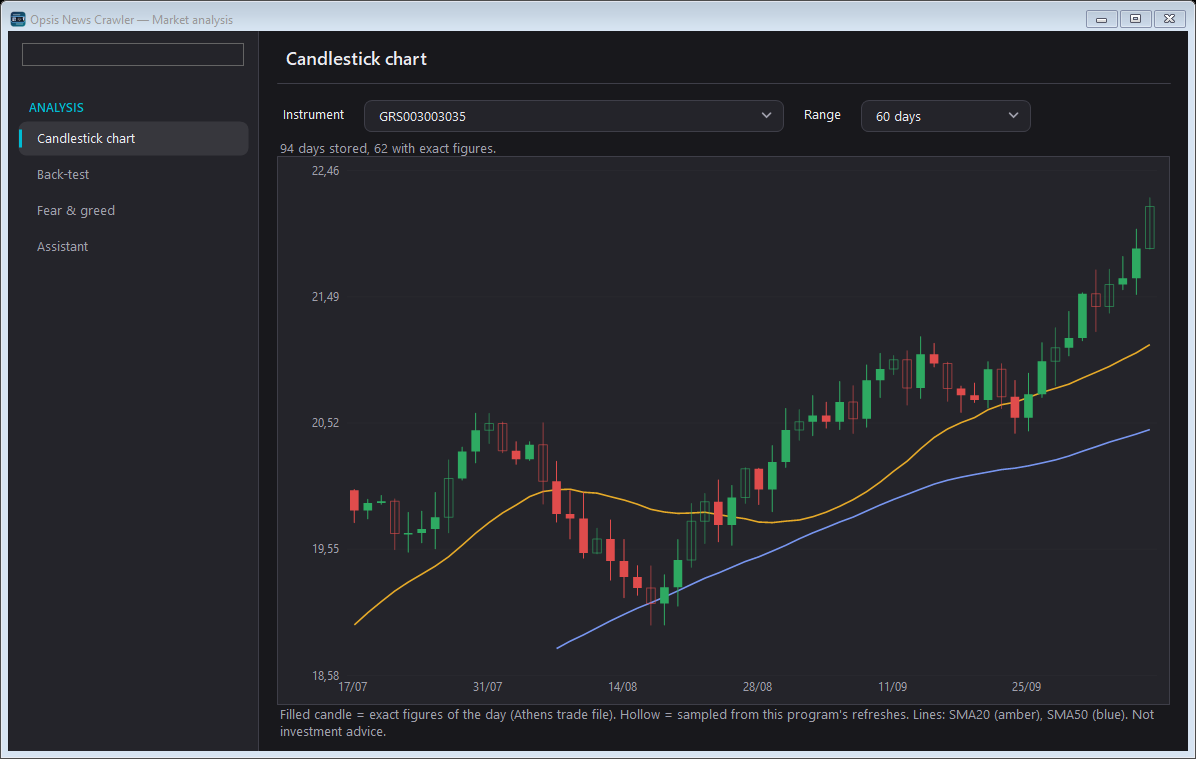
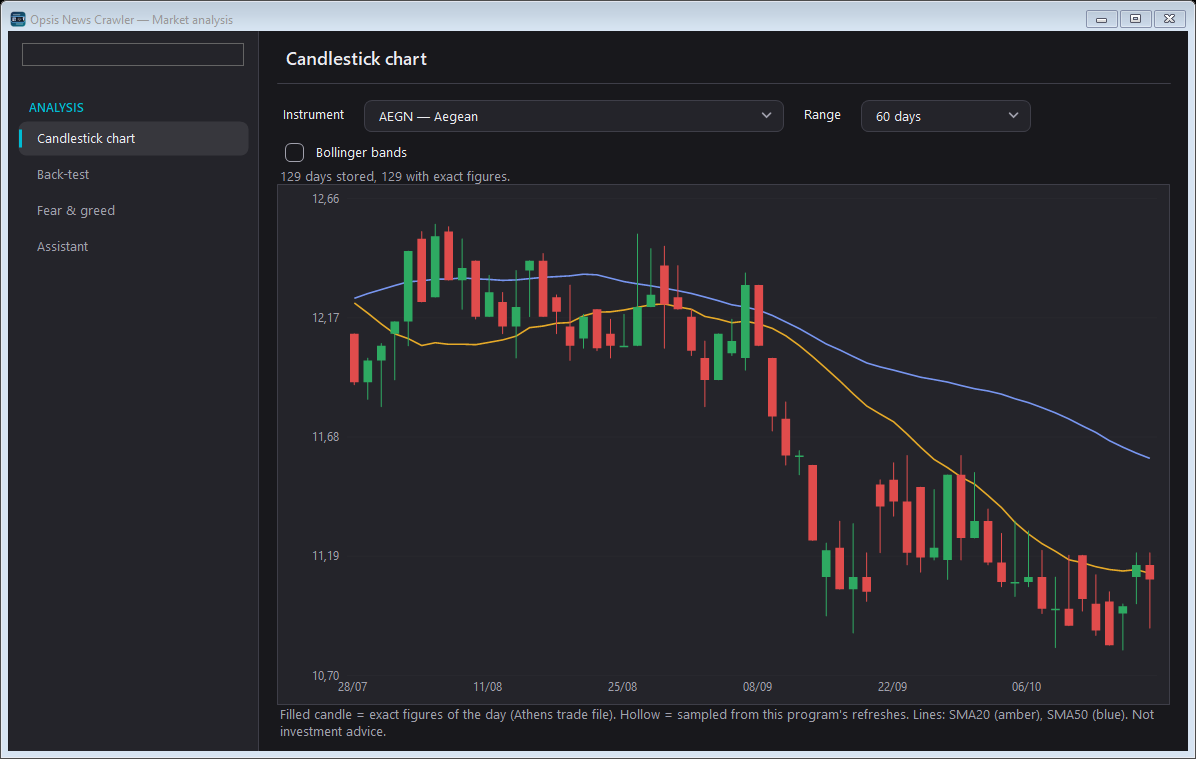
0.13.1: optional Yahoo price history, Bollinger bands, translations in 14 languages

diff --git a/src/OpsisNewsCrawler.Core/RssNewsProvider.cs b/src/OpsisNewsCrawler.Core/RssNewsProvider.cs
@@ -36,7 +36,7 @@ public sealed class RssNewsProvider : IDisposable
     public RssNewsProvider()
     {
         http = new HttpClient { Timeout = TimeSpan.FromSeconds(15), MaxResponseContentBufferSize = MaxFeedBytes };
-        http.DefaultRequestHeaders.UserAgent.ParseAdd("Mozilla/5.0 (compatible; OpsisNewsCrawler/0.13.0)");
+        http.DefaultRequestHeaders.UserAgent.ParseAdd("Mozilla/5.0 (compatible; OpsisNewsCrawler/0.13.1)");
         http.DefaultRequestHeaders.Accept.ParseAdd("application/rss+xml, application/atom+xml, application/xml, text/xml, */*");
     }
 

diff --git a/src/OpsisNewsCrawler.Windows/AboutTexts.cs b/src/OpsisNewsCrawler.Windows/AboutTexts.cs
@@ -5,7 +5,7 @@ namespace OpsisNewsCrawler.Windows;
 /// <summary>The Help / Instructions / Version history / License texts, in the language of the UI (see locale files).</summary>
 public static class AboutTexts
 {
-    public const string Version = "0.13.0";
+    public const string Version = "0.13.1";
 
     public static string Help => Loc.T("help.text");
     public static string Instructions => Loc.T("instructions.text");

diff --git a/docs/RELEASE-0.13.1.md b/docs/RELEASE-0.13.1.md
@@ -1,0 +1,47 @@
+# Opsis News Crawler 0.13.1
+
+> Το κύριο Opsis - Desktop Customization παραμένει στην έκδοση **1.9.8**. / The main application Opsis - Desktop Customization stays at version **1.9.8**.
+
+## Ελληνικά
+
+### Νέα
+- **Προαιρετικό ιστορικό τιμών από το Yahoo Finance** (Πηγές → Ροή αγορών → Ιστορικό τιμών). **Ανενεργό από προεπιλογή, ανεπίσημο, με δική σου ευθύνη**: οι όροι του Yahoo δεν επιτρέπουν αυτοματοποιημένη χρήση. Όταν το ενεργοποιήσεις, το πρόγραμμα ζητά τις ημερήσιες τιμές των τελευταίων έξι μηνών για τα προϊόντα σου (μία αίτηση ανά προϊόν την ημέρα, με διάστημα ενός δευτερολέπτου), σταματά με την πρώτη άρνηση και δεν παρακάμπτει κανένα όριο. Έτσι το **γράφημα κεριών, η δοκιμή στρατηγικής και ο δείκτης φόβου/απληστίας** δουλεύουν από την πρώτη μέρα, με πραγματικά δεδομένα (στιγμιότυπα παρακάτω).
+- **Ζώνες Bollinger** στο γράφημα κεριών.
+- **Μεταφράσεις**: όλα τα νέα κείμενα (ανάλυση αγορών, βοηθός, στυλ μπάρας, tray, καιρός, μηνύματα δικτύου) στις 12 γλώσσες. Τα μεγάλα κείμενα Βοήθειας/Οδηγιών/Ιστορικού/Άδειας μένουν αγγλικά στις 12 αυτές γλώσσες.
+- Ενημερωμένες Οδηγίες (νέα δομή ρυθμίσεων, ανάλυση αγορών).
+
+### Διορθώσεις
+- Οι μετοχές άλλων αγορών Euronext και το χαρτοφυλάκιο βρίσκουν πλέον τις αποθηκευμένες τιμές τους στα γραφήματα και στους δείκτες.
+
+### Σημειώσεις
+- Το **Stooq δεν υποστηρίζεται**: σήμερα απαντά με σελίδα επαλήθευσης «δεν είσαι ρομπότ» και το robots.txt του απαγορεύει την αυτόματη πρόσβαση· δεν παρακάμπτεται προστασία.
+- Η πραγματική κλήση του βοηθού AI δεν έχει δοκιμαστεί (χρειάζεται δικό σου κλειδί Anthropic).
+
+### Στιγμιότυπα (πραγματικά δεδομένα Yahoo, μετοχές Αθηνών)
+| | |
+|---|---|
+| ![Ιστορικό τιμών](https://raw.githubusercontent.com/giorstergiopoulos-design/OpsisNewsCrawler/main/docs/screenshots/el/07-markets.png) | ![Κεριά](https://raw.githubusercontent.com/giorstergiopoulos-design/OpsisNewsCrawler/main/docs/screenshots/el/15-analysis-candles.png) |
+| ![Δοκιμή](https://raw.githubusercontent.com/giorstergiopoulos-design/OpsisNewsCrawler/main/docs/screenshots/el/16-analysis-backtest.png) | ![Φόβος και απληστία](https://raw.githubusercontent.com/giorstergiopoulos-design/OpsisNewsCrawler/main/docs/screenshots/el/17-analysis-fear-greed.png) |
+
+## English
+
+### New
+- **Optional price history from Yahoo Finance** (Sources → Markets flow → Price history). **Off by default, unofficial, at your own risk**: Yahoo's terms do not allow automated use. When switched on, the program asks for the daily prices of the last six months for your instruments (one request per instrument and day, one second apart), stops at the first refusal and bypasses no limit. This makes the **candlestick chart, the back-test and the fear & greed gauge** work from the first day, with real data (screenshots below).
+- **Bollinger bands** on the candlestick chart.
+- **Translations**: every new text (market analysis, assistant, bar styles, tray, weather, network messages) in the 12 other languages. The long Help/Instructions/History/License texts stay English in those 12 languages.
+- Updated Instructions (new settings layout, market analysis).
+
+### Fixes
+- Shares of other Euronext markets and the portfolio now find their stored prices in the charts and indicators.
+
+### Notes
+- **Stooq is not supported**: it now answers with a "verify you are not a robot" page and its robots.txt forbids automated access; no protection is bypassed.
+- A real call to the AI assistant has not been tested (it needs your own Anthropic key).
+
+### Screenshots (real Yahoo data, Athens shares)
+| | |
+|---|---|
+| ![Price history](https://raw.githubusercontent.com/giorstergiopoulos-design/OpsisNewsCrawler/main/docs/screenshots/en/07-markets.png) | ![Candles](https://raw.githubusercontent.com/giorstergiopoulos-design/OpsisNewsCrawler/main/docs/screenshots/en/15-analysis-candles.png) |
+| ![Back-test](https://raw.githubusercontent.com/giorstergiopoulos-design/OpsisNewsCrawler/main/docs/screenshots/en/16-analysis-backtest.png) | ![Fear and greed](https://raw.githubusercontent.com/giorstergiopoulos-design/OpsisNewsCrawler/main/docs/screenshots/en/17-analysis-fear-greed.png) |
+
+Weather data: Open-Meteo.com (CC BY 4.0). Not code-signed: Windows SmartScreen may warn. Requires the .NET 10 Desktop Runtime (the installer can fetch it).

diff --git a/README.md b/README.md
@@ -29,6 +29,8 @@
 | 🧩 Plugin | Ενσωματωμένη εγκατάσταση στο Opsis (δική του σελίδα, χρώματα και γλώσσα του Opsis) ή αυτόνομη εφαρμογή |
 | 🌍 14 γλώσσες | Ελληνικά, English, Deutsch, Français, Español, Italiano, Português, Русский, Türkçe, 日本語, 한국어, 简体中文, العربية (με δεξιά-προς-αριστερά διάταξη), हिन्दी |
 
+**Νέο στην 0.13.1:** προαιρετικό ιστορικό τιμών από το Yahoo Finance (ανενεργό από προεπιλογή, ανεπίσημο, με δική σας ευθύνη), ζώνες Bollinger, μεταφράσεις σε 14 γλώσσες.
+
 **Νέο στην 0.13.0:** παράθυρο **Ανάλυσης αγορών** (γράφημα κεριών με SMA20/50, δοκιμή στρατηγικής SMA/RSI,
 δείκτης φόβου και απληστίας από τις αποθηκευμένες τιμές, προαιρετικός βοηθός με το δικό σας κλειδί Anthropic), νέο παράθυρο
 ρυθμίσεων με πλευρική πλοήγηση και όλες τις ρυθμίσεις μπαρών στη σελίδα «Μπάρες», στυλ μπάρας επιφάνειας (ορθογώνιο, στρογγυλεμένο,
@@ -130,6 +132,8 @@ Frankfurter/ΕΚΤ, FRED/EIA. Καιρός: [Open-Meteo.com](https://open-meteo.
 | 🎨 Look | Colour, transparency, background material (acrylic/blur), fading ends, theme — the same as Opsis |
 | 🧩 Plugin | Integrated into Opsis (its own page, Opsis colours and language) or a stand-alone app |
 | 🌍 14 languages | Greek, English, German, French, Spanish, Italian, Portuguese, Russian, Turkish, Japanese, Korean, Simplified Chinese, Arabic (with right-to-left layout), Hindi |
+
+**New in 0.13.1:** optional price history from Yahoo Finance (off by default, unofficial, at your own risk), Bollinger bands, translations in 14 languages.
 
 **New in 0.13.0:** a **Market analysis** window (candlestick chart with SMA20/50, SMA/RSI back-test, a fear & greed gauge from the
 stored prices, an optional assistant with your own Anthropic key), a new settings window with side navigation and every bar setting on

diff --git a/CHANGELOG.md b/CHANGELOG.md
@@ -3,7 +3,7 @@
 The complete history (all versions, in Greek and English) is also inside the program: Settings → Information → History.
 Detailed notes per release: `docs/RELEASE-*.md` and the GitHub releases.
 
-## Unreleased (after 0.13.0)
+## 0.13.1 — 2026-10-21
 - All new texts of 0.12.8–0.13.0 translated into the 12 other languages (analysis window, back-test, fear & greed, assistant, bar styles, tray, weather details, network messages). Help/Instructions/History/License remain English in those 12 languages.
 - Optional price history from Yahoo Finance (off by default, unofficial, at the user's own risk): charts, back-test and gauge work from the first day. Stooq is not supported (bot check).
 - Bollinger bands on the candlestick chart; Euronext shares of other markets and the portfolio now find their stored prices (store key MIC:ISIN).
